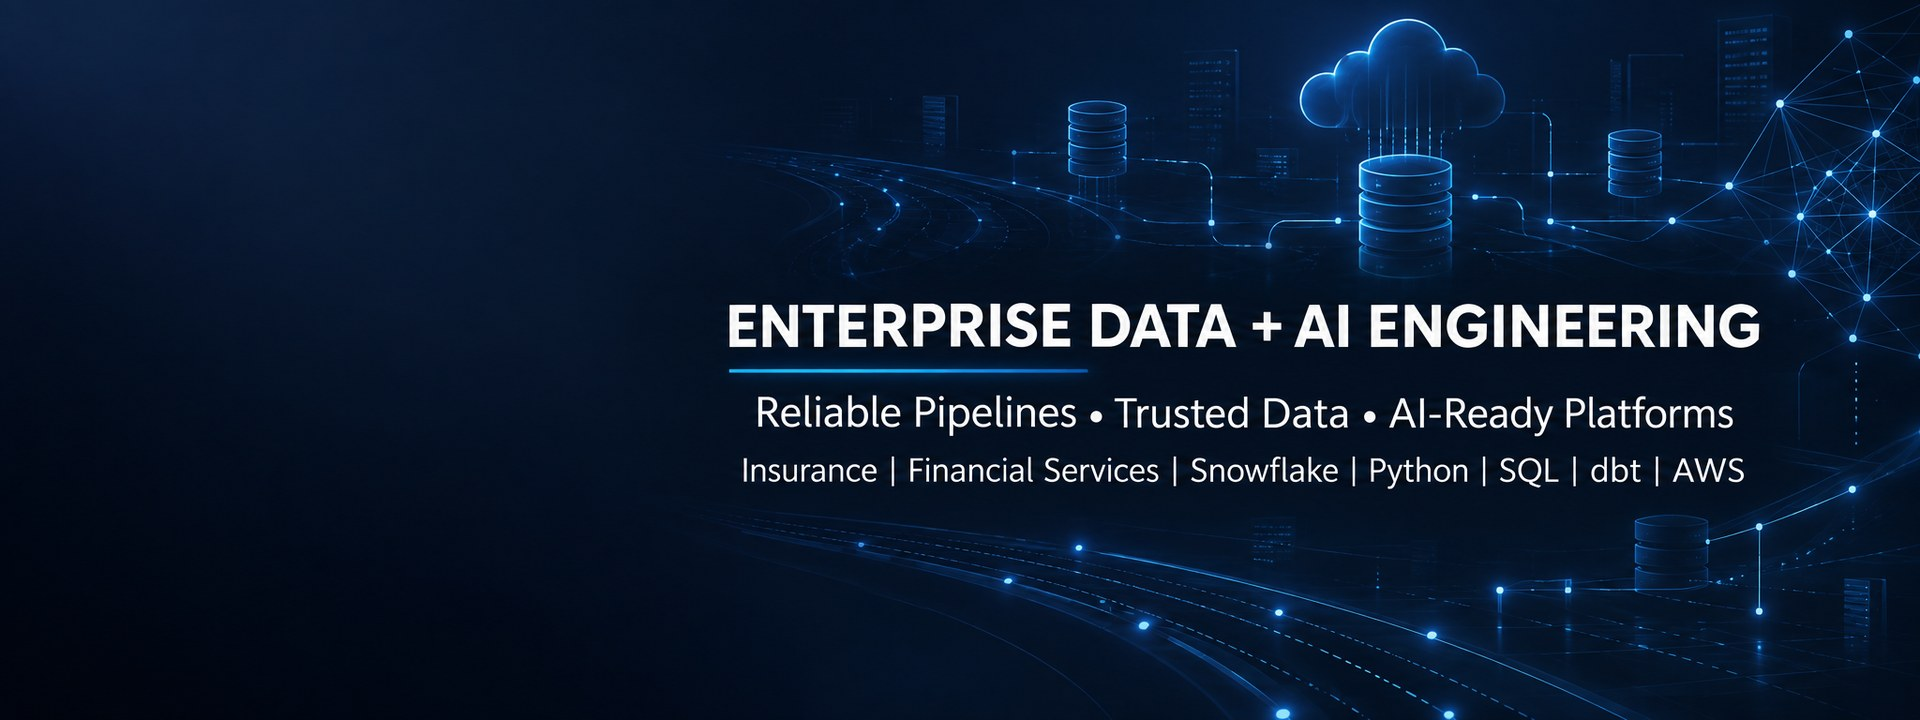
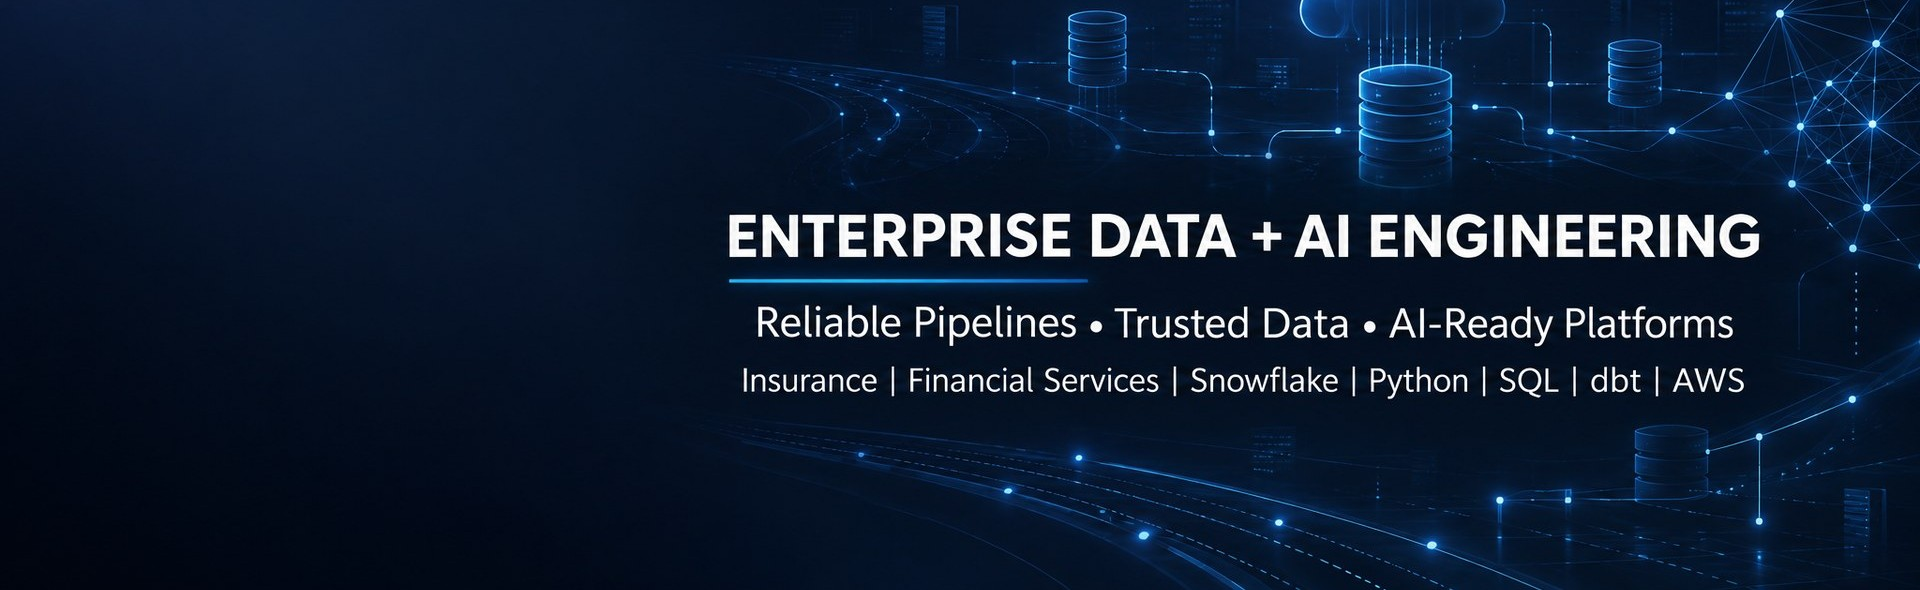
updated

diff --git a/index.html b/index.html
@@ -89,7 +89,6 @@
           <p> Hello! I'm Brijesh (Harry) Sharma, a Senior Data Engineer who builds reliable enterprise data platforms for industries where accuracy, security, and trust directly affect business decisions.
             Over 6+ years, I've delivered enterprise data pipelines, governed data models, analytics, and AI-enabled prototypes across insurance, SaaS, sales, and marketing.
             I'm hands-on with Python, SQL, Snowflake, dbt, PostgreSQL, Git/GitHub, AWS, and Azure, and known for improving pipeline reliability, accelerating migrations, protecting sensitive data, and translating business requirements into trusted data products for underwriting, actuarial, claims, and commercial teams.<br><br>
-            Currently at Shelter Insurance in Columbia, MO, I own the end-to-end integration of insurance data into the Guidewire ecosystem and mentor engineers on data quality and automation practices.<br><br>
             Let's build something reliable together!</p>
         </div>
 

diff --git a/assets/css/modern-theme.css b/assets/css/modern-theme.css
@@ -132,10 +132,16 @@ a:hover { color: var(--accent-2); }
 }
 
 #hero .hero-banner {
-  height: clamp(140px, 22vh, 240px);
+  height: clamp(190px, 27vh, 300px);
   background: #0b1220 url("../img/hero-banner.jpg") center center;
   background-size: cover;
   position: relative;
+}
+
+@media (min-aspect-ratio: 5/2) {
+  #hero .hero-banner {
+    height: clamp(260px, 38vh, 340px);
+  }
 }
 
 #hero .hero-banner:after {
